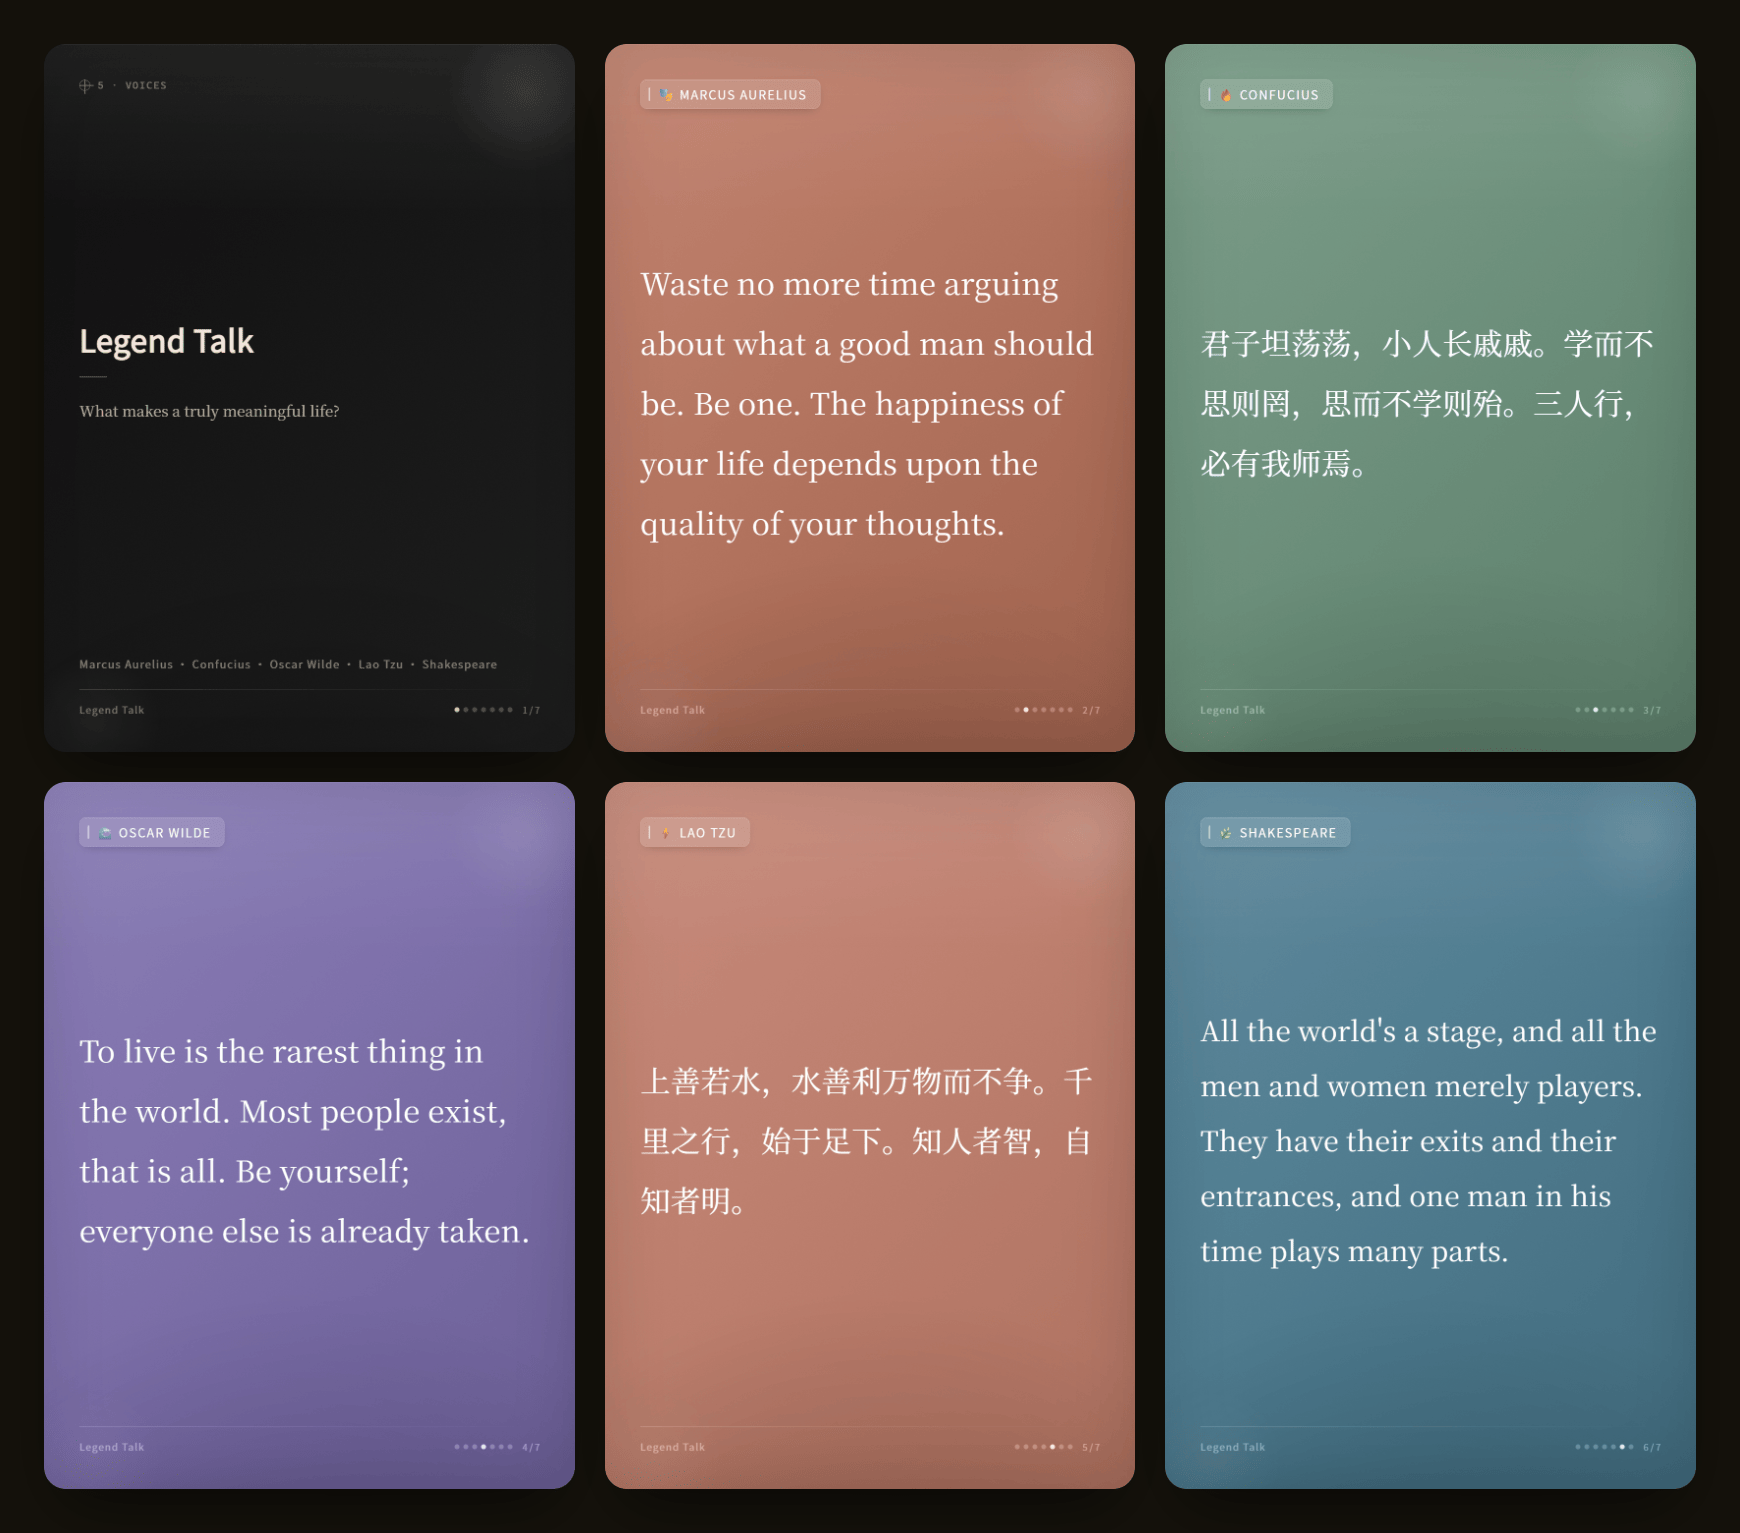
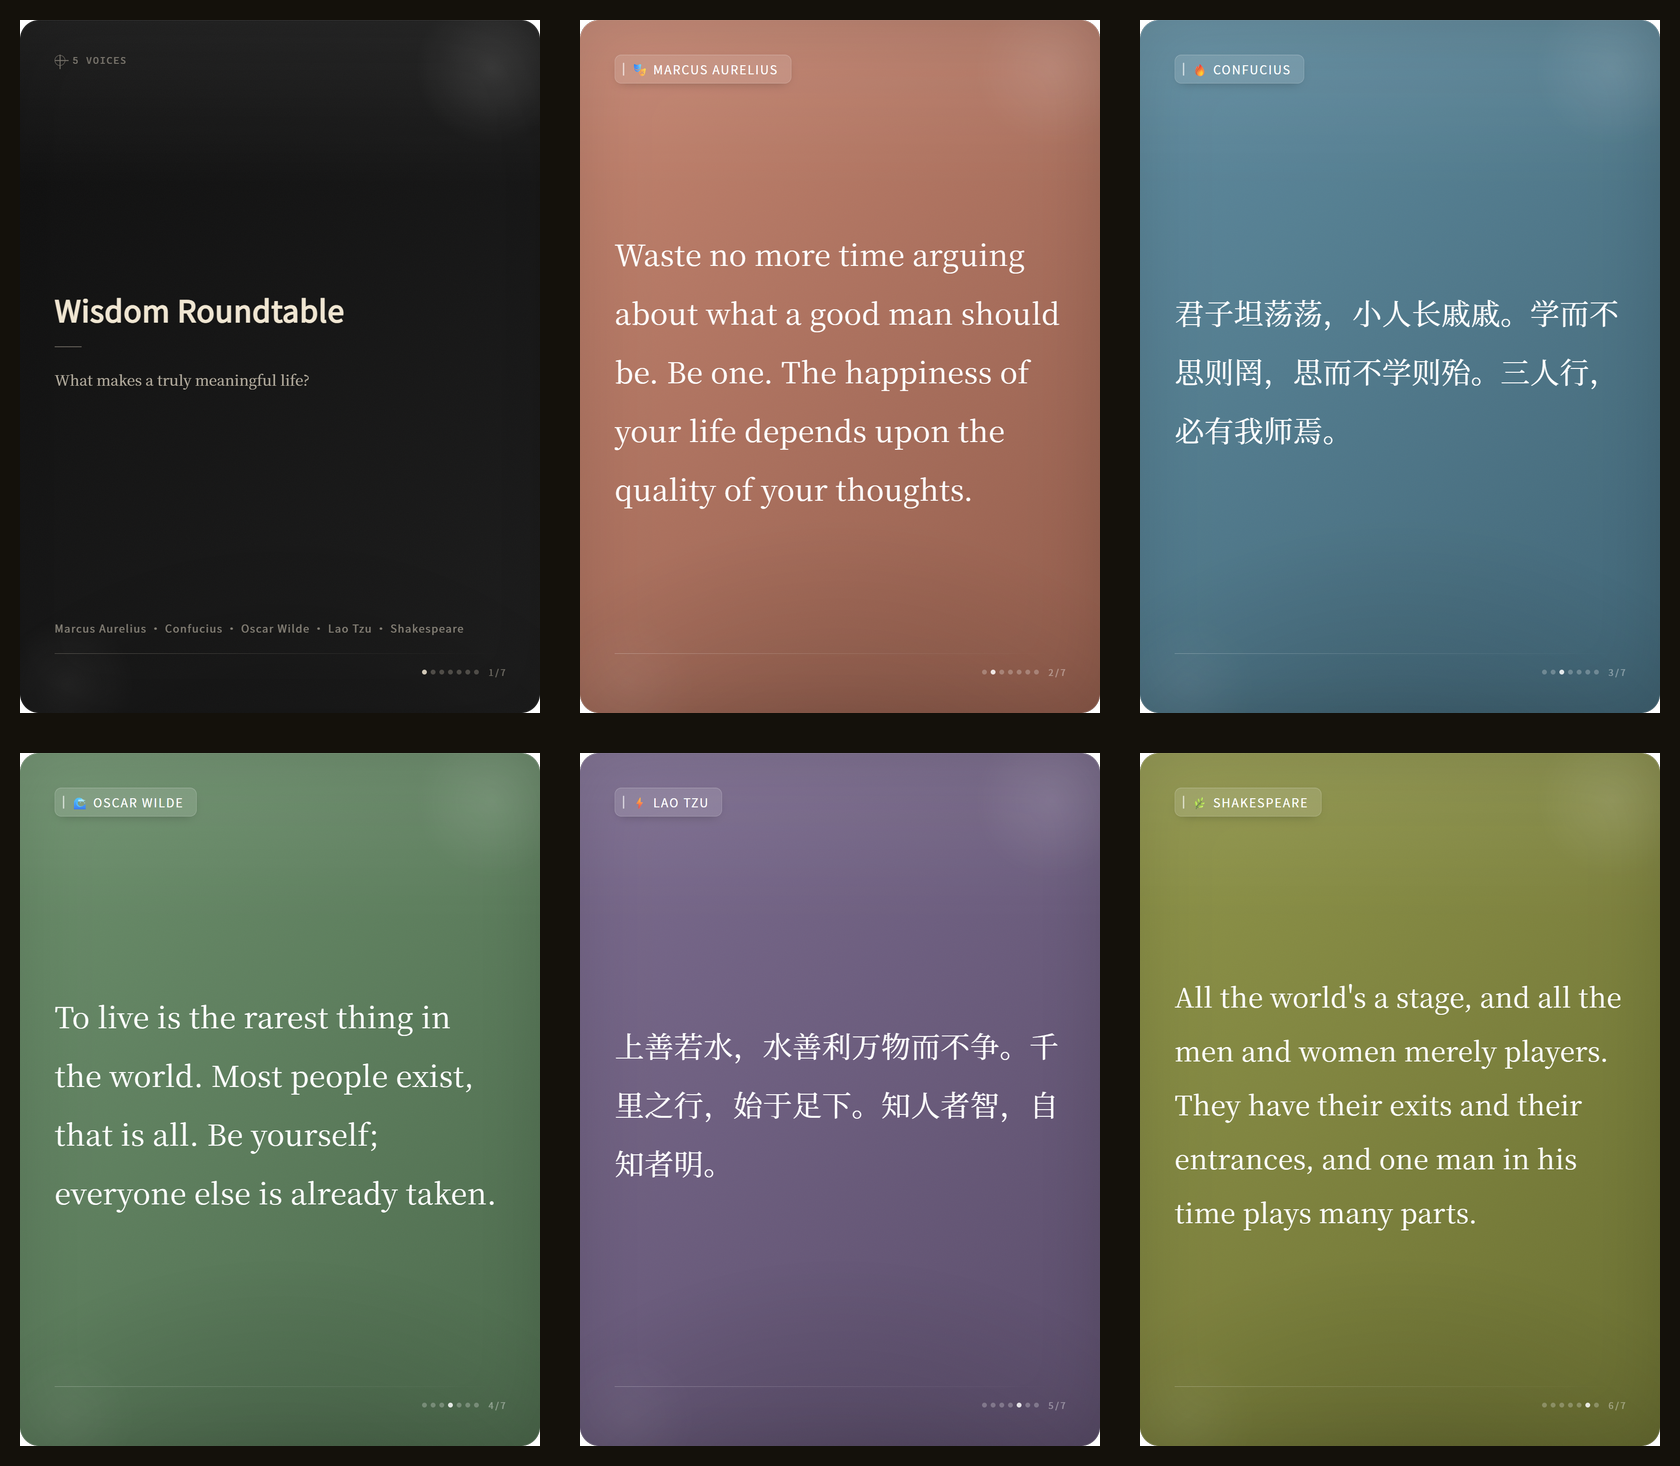
docs: refresh facade — README facts and craft, re-shot screenshots, social preview
README 双语同步：事实对齐落地（水印居中、说话人派生、coverTitle/cardStyle
缺省语义、删测试计数）；首屏加可点入口行（下载·Docker·语言）；定位段去复读、
删不可复现的 ~100ms 数字；新增唯一 NOTE（全程本机渲染不上传）与「限制」节
（Chromium 依赖 / 字体 8MB / 默认限流）；365 页脚改三行制式。
截图全部按现状重拍（英文界面图为 README.md、中文界面图 web-ui.zh.png 给
zh 版，卡片成品与 16:9 示例按新调色板/封面规则重出）；
docs/social-preview.png 为专设 1280×640 社交预览图（2x 出图 238KB，
待 Settings 手工上传）。.gitignore 收编工作稿目录（design-preview/、.qoder*）。

diff --git a/README.zh.md b/README.zh.md
@@ -2,24 +2,26 @@
 
 > 别再截图聊天记录了——粘贴导出，直接排成能发的卡片图
 
-[English](README.md) · **简体中文**
+[⬇ 下载](https://github.com/rockbenben/json2card/releases/latest) · [Docker 自建部署](#开始使用) · [English](README.md)
 
 [![License: MIT](https://img.shields.io/badge/license-MIT-green.svg)](LICENSE) [![365 开源计划 #003](https://img.shields.io/badge/365%20%E5%BC%80%E6%BA%90%E8%AE%A1%E5%88%92-%23003-1f6feb)](https://github.com/rockbenben/365opensource)
 
-把 Slack、ChatGPT、Claude 的原始导出粘进去，json2card 自己认出格式，把对话排成能直接发出去的卡片图 —— 不用定义结构，也不用事后在 Figma 里收拾。品牌色调一次，PNG 就能直接放进博客、Notion 或 16:9 幻灯片。
+不用定义结构，也不用事后在 Figma 里收拾：格式由数据自己说话，品牌色一次设定整套通用。调完导出 PNG，直接放进博客、Notion 或 16:9 幻灯片。
 
 |                  粘进去、调排版                   |                     出来的成品                     |
 | :------------------------------------------------: | :-------------------------------------------------: |
-| ![网页界面：粘贴导出内容、调整样式](docs/web-ui.png) | ![排好版、可直接发的卡片](docs/card-preview.png) |
+| ![网页界面：粘贴导出内容、调整样式](docs/web-ui.zh.png) | ![排好版、可直接发的卡片](docs/card-preview.png) |
 
 ## 特性
 
 - **自动识别任意导出** — ChatGPT、Claude、Telegram、Discord、Slack 或你自己的 JSON。多条消息采样验证，一次命中结构；遇到奇怪结构，用一行字段映射指一下即可。
-- **导出前就调成你的样子** — 品牌主题（统一背景 + 文字色贴合博客/幻灯片）、上传自己的字体、6 种可视风格预设、16 色调色板、5 种尺寸、水印 —— 不必事后 P 图。
+- **导出前先调好样式** — 品牌主题（统一背景 + 文字色贴合博客/幻灯片）、上传自己的字体、6 种可视风格预设、16 色调色板、5 种尺寸、水印 —— 不必事后 P 图。
 - **乱输入也优雅降级** — 长消息自动分页，嵌套/非字符串内容强转为文本，` ``` ` 代码块保留等宽，markdown 剥离为纯文字。它会降级，而不是把版面搞崩。
-- **三种使用方式** — 网页可视化编辑、命令行批处理（不用再写一次性脚本）、REST API 集成。
 - **自适应字号** — 短语录放大填满画幅，密集/分页内容保持你设定的字号。
-- **快且可移植** — 已启用 CORS 的 API、file:// 字体加载 + 页面复用（热服务器约 100ms/张）、一条命令 Docker 部署。
+- **三种使用方式** — 网页可视化编辑、命令行批处理（不用再写一次性脚本）、REST API 集成。
+
+> [!NOTE]
+> 全程在你自己的机器上渲染，聊天记录不出这台机器。跑 Docker 镜像或本地 `npm start`，浏览器打开 `localhost` 即可；没有账号，也没有遥测。
 
 ## 开始使用
 
@@ -47,7 +49,7 @@ npm install && npm run setup-fonts && npm start
 | 格式                       | 说明                                    |
 | -------------------------- | --------------------------------------- |
 | `[["说话人","内容"], ...]` | 简单对话列表                            |
-| `{role, content}`          | OpenAI / Claude API（支持 `name` 字段） |
+| `{role, content}`          | OpenAI / Claude API（说话人取 `name`，没有就用 `role`） |
 | `{from, text}`             | Telegram 导出                           |
 | `{author.name, content}`   | Discord 导出                            |
 | `{user, text}`             | Slack 导出                              |
@@ -69,7 +71,7 @@ npm install && npm run setup-fonts && npm start
 | **配色**     | 16 色自动分配，可逐角色自定义                                                           |
 | **字体**     | `fonts/` 自动识别，或浏览器上传（data-URI 内嵌；适合拉丁/子集字体）                     |
 | **布局**     | 4 个槽位（标题、正文、底部左/右）x 任意字段                                             |
-| **水印**     | 自定义文字，右下角                                                                      |
+| **水印**     | 自定义文字，底部居中                                                                      |
 | **语言**     | 18 种界面语言，含从右到左（阿拉伯语）                                                   |
 | **主题**     | 暗色 / 亮色                                                                             |
 
@@ -139,7 +141,7 @@ node generate.mjs --body-font X  # 自定义字体
 
 ## 配置参数
 
-全部可选，不传用默认值。
+全部可选，不传用默认值——特别地：`coverTitle` 缺省时封面取 JSON 自带的 `title`；`cardStyle` 预设垫在你显式传的 `styleParams` 之下。
 
 ```json
 {
@@ -179,6 +181,12 @@ node generate.mjs --body-font X  # 自定义字体
 | `PORT`       | `3000` | 服务端口                               |
 | `RATE_LIMIT` | `10`   | 每分钟每 IP 最大请求数（`0` 关闭限流） |
 
+## 限制
+
+- 渲染驱动无头 Chromium（Puppeteer）：Docker 镜像已内置；从源码跑的话，首次启动会下载一个浏览器。
+- 浏览器上传字体按 data URI 内嵌——适合拉丁或子集字体，上限约 8 MB（完整中文字塞不下，装到 `fonts/` 目录里即可）。
+- API 默认每 IP 每分钟 10 次限流（`RATE_LIMIT=0` 关闭）——对外公开实例前记得设。
+
 ## 项目结构
 
 ```text
@@ -192,9 +200,11 @@ docker-compose.yml  — Compose 部署
 ```
 
 ```bash
-npm test    # 11 个测试
+npm test
 ```
 
 ## 关于 365 开源计划
 
-[365 开源计划](https://github.com/rockbenben/365opensource) 的第 **#003** 个项目——一个人 + AI，一年 300+ 个开源项目。[提交你的需求 →](https://365.aishort.top/) · [Discord](https://discord.gg/PZTQfJ4GjX) · [Telegram](https://t.me/aishort_top)
+[365 开源计划](https://github.com/rockbenben/365opensource) 的第 **#003** 个项目——一个人 + AI，一年 300+ 个开源项目。
+
+[提交你的需求 →](https://365.aishort.top/) · [Discord](https://discord.gg/PZTQfJ4GjX) · [Telegram](https://t.me/aishort_top)

diff --git a/README.md b/README.md
@@ -2,11 +2,11 @@
 
 > Stop screenshotting chat threads — paste the export, get cards you can post
 
-**English** · [简体中文](README.zh.md)
+[⬇ Download](https://github.com/rockbenben/json2card/releases/latest) · [Self-host with Docker](#get-started) · [简体中文](README.zh.md)
 
 [![License: MIT](https://img.shields.io/badge/license-MIT-green.svg)](LICENSE) [![365 Open Source Plan #003](https://img.shields.io/badge/365%20Open%20Source%20Plan-%23003-1f6feb)](https://github.com/rockbenben/365opensource)
 
-Paste the raw export from Slack, ChatGPT or Claude — json2card works out the format on its own and lays the conversation out as cards you can actually post. No schema to define, no tidying up in Figma afterwards. Set your brand colours once, then drop the PNGs straight into a blog post, Notion, or a 16:9 slide deck.
+No schema to define and no tidying up in Figma afterwards: the format is figured out from the data itself, and your brand colours are set once for the whole set. The PNGs drop straight into a blog post, Notion, or a 16:9 slide deck.
 
 |                  Paste and lay it out                  |                    What comes out                     |
 | :----------------------------------------------------: | :---------------------------------------------------: |
@@ -17,9 +17,11 @@ Paste the raw export from Slack, ChatGPT or Claude — json2card works out the f
 - **Auto-detects any export** — ChatGPT, Claude, Telegram, Discord, Slack, or your own JSON. Multi-sample validation gets the structure right on the first try; for an odd shape, point at the fields with a one-line mapping.
 - **Make it yours before export** — Brand theme (one background + text color to match your blog or slide deck), upload your own font, 6 style presets in a visual gallery, 16-color palette, 5 sizes, watermark — no editing the PNG afterward.
 - **Handles messy input gracefully** — Long messages auto-paginate, nested / non-string content is coerced to text, fenced code blocks stay monospace, and markdown is stripped to clean prose. It degrades, it doesn't blow up the layout.
-- **Three ways to use** — Web UI for visual editing, CLI for batch jobs (no more one-off scripts), REST API for integration.
 - **Auto-fit typography** — Short quotes scale up to fill the frame; dense and paginated text keeps your chosen size.
-- **Fast & portable** — CORS-enabled API, file-based fonts + page reuse (~100ms per card on a warm server), one-command Docker deploy.
+- **Three ways to use** — Web UI for visual editing, CLI for batch jobs (no more one-off scripts), REST API for integration.
+
+> [!NOTE]
+> Everything renders on your own machine — the chat export never leaves it. Run the Docker image or `npm start` locally and point the browser at `localhost`; there is no account and no telemetry.
 
 ## Get Started
 
@@ -47,7 +49,7 @@ npm install && npm run setup-fonts && npm start
 | Format                      | Example                                     |
 | --------------------------- | ------------------------------------------- |
 | `[["speaker","text"], ...]` | Simple dialog list                          |
-| `{role, content}`           | OpenAI / Claude API (supports `name` field) |
+| `{role, content}`           | OpenAI / Claude API (speaker from `name`, else `role`) |
 | `{from, text}`              | Telegram export                             |
 | `{author.name, content}`    | Discord export                              |
 | `{user, text}`              | Slack export                                |
@@ -69,7 +71,7 @@ Chat is the sweet spot, but under the hood it's just _records → cards_: map an
 | **Colors**      | 16 auto-assigned muted tones, per-speaker override                                                      |
 | **Fonts**       | Auto-detected from `fonts/`, or upload one in the browser (data-URI embed; best for Latin/subset fonts) |
 | **Layout**      | 4 slots (header, body, footer left/right) x any field                                                   |
-| **Watermark**   | Custom text, bottom-right                                                                               |
+| **Watermark**   | Custom text, bottom-center                                                                                |
 | **Language**    | 18 UI languages, incl. right-to-left (Arabic)                                                           |
 | **Theme**       | Dark / Light                                                                                            |
 
@@ -139,7 +141,7 @@ node generate.mjs --body-font X  # custom font
 
 ## Config Reference
 
-All fields optional. Defaults used when omitted.
+All fields optional. Defaults used when omitted — notably `coverTitle` falls back to the JSON's own `title`, and `cardStyle` presets apply underneath any explicit `styleParams`.
 
 ```json
 {
@@ -179,6 +181,12 @@ All fields optional. Defaults used when omitted.
 | `PORT`       | `3000`  | Server port                                     |
 | `RATE_LIMIT` | `10`    | Max requests per minute per IP (`0` to disable) |
 
+## Limitations
+
+- Rendering drives headless Chromium (Puppeteer): the Docker image ships it; from source, first run downloads a browser.
+- Browser font upload embeds the file as a data URI — fine for Latin or subset fonts, capped at ~8 MB (full CJK families won't fit; install them under `fonts/` instead).
+- The API rate-limits to 10 requests/min per IP by default (`RATE_LIMIT=0` disables) — worth setting before you expose a public instance.
+
 ## Project Structure
 
 ```text
@@ -192,9 +200,11 @@ docker-compose.yml  — compose deploy
 ```
 
 ```bash
-npm test    # 11 tests
+npm test
 ```
 
 ## About the 365 Open Source Plan
 
-Project **#003** of the [365 Open Source Plan](https://github.com/rockbenben/365opensource) — one person + AI, 300+ open-source projects in a year. [Submit your idea →](https://365.aishort.top/) · [Discord](https://discord.gg/PZTQfJ4GjX) · [Telegram](https://t.me/aishort_top)
+Project **#003** of the [365 Open Source Plan](https://github.com/rockbenben/365opensource) — one person + AI, 300+ open-source projects in a year.
+
+[Submit your idea →](https://365.aishort.top/) · [Discord](https://discord.gg/PZTQfJ4GjX) · [Telegram](https://t.me/aishort_top)
